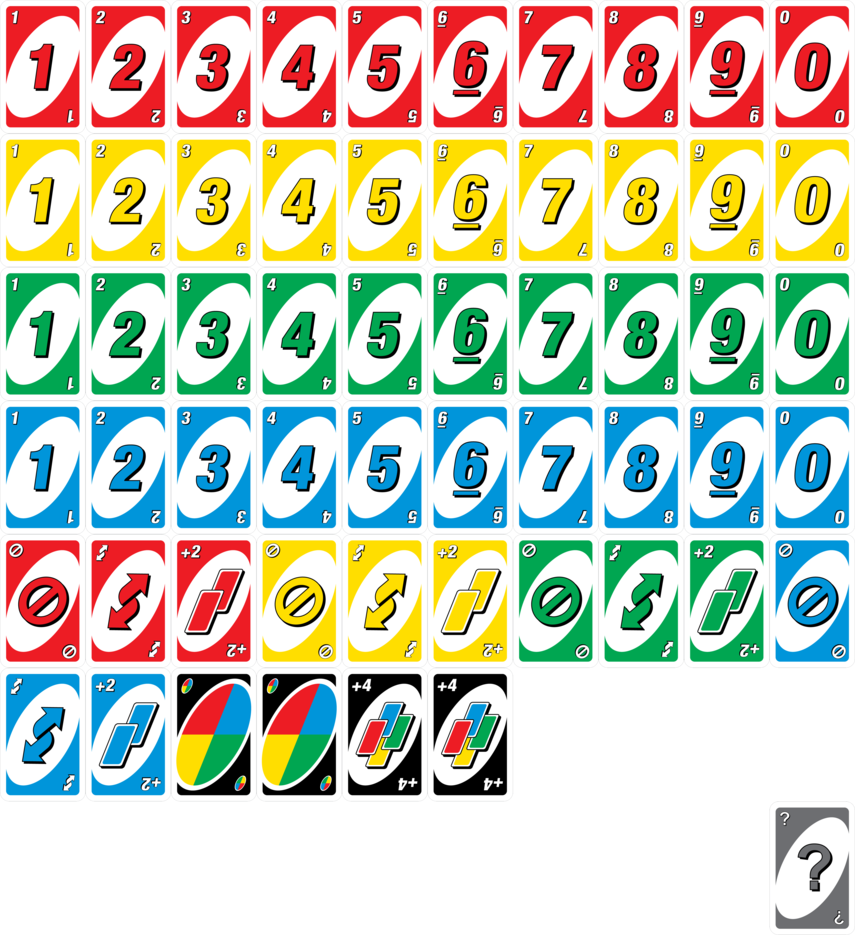
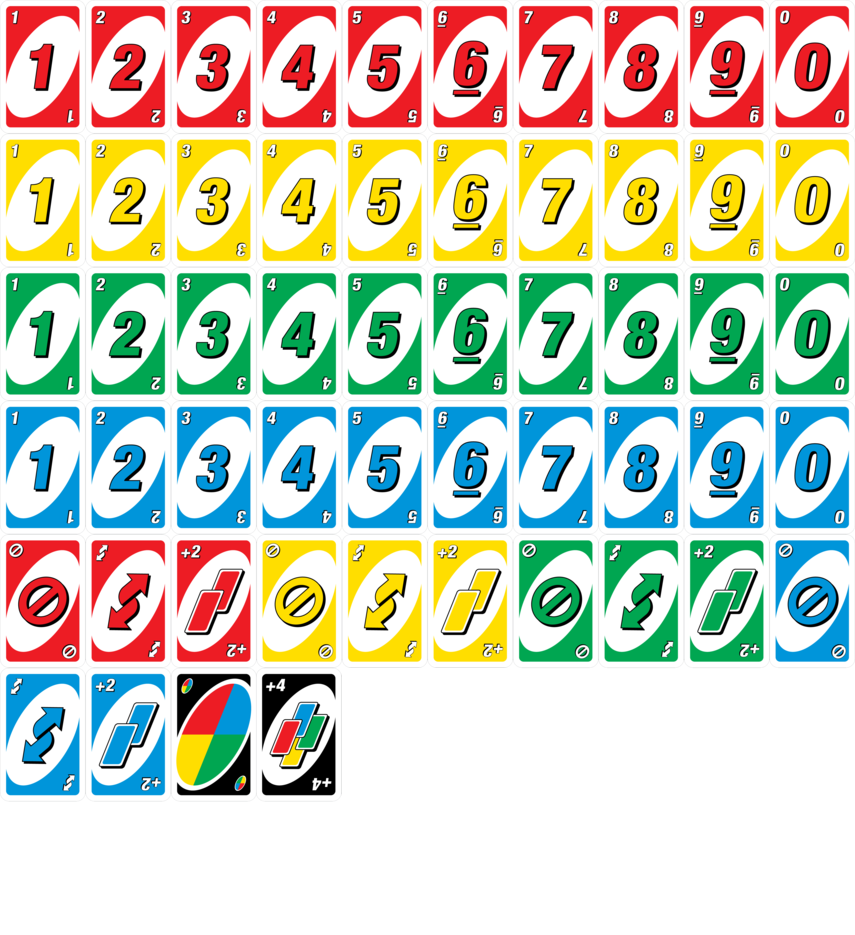
neues Kartendesign

Changed region(s): [[0.3041, 0.7134, 0.6082, 0.8684], [0.8819, 0.8374, 1.0, 1.0]]

diff --git a/sketch.js b/sketch.js
@@ -4,6 +4,7 @@ let cards;
  * function that loads content before showing site
  */
 function preload() {
+    // load image data
     cards = loadImage('img/default/cards.png');
 }
 
@@ -19,7 +20,11 @@ function setup() {
 
     // Top-left corner of the img is at (0, 0)
     // Width and height are the img's original width and height
-    image(cards, 0,0, windowWidth,windowHeight, 0,0, 86,128);
+    let card_height = 134;
+    let card_width = 85;
+    image(cards, 0,0, 86*2,128*2, 0,0, card_width,card_height);
+    image(cards, 187,187, 86*2,128*2, card_width*8,card_height*3, card_width,card_height);
+    image(cards, 187*2,187*2, 86*2,128*2, card_width*10,card_height*4, card_width,card_height);
 }
 
 function draw() {

diff --git a/README.md b/README.md
@@ -4,6 +4,6 @@ An UNO that aims to be an browser based multiplayer GAME.
 
 ## Milestones
 
-- [ ] Karten einbinden (WEBP/SVG/JPEG)
+- [ ] Karten einbinden (WEBP/SVG/PNG)
 - [ ] Karten in Stack speichern (Verteilstapel), verteilen (an Spieler) und ablegen (auf den Ablegstapel)
 - [ ] Multiplayer (netzwerk basiert)
